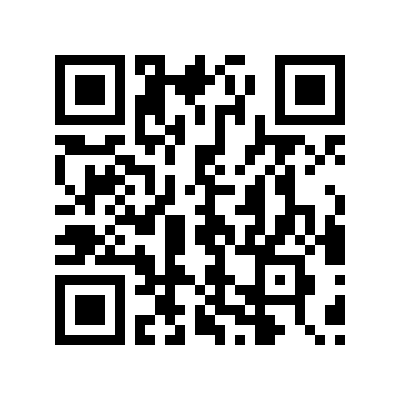
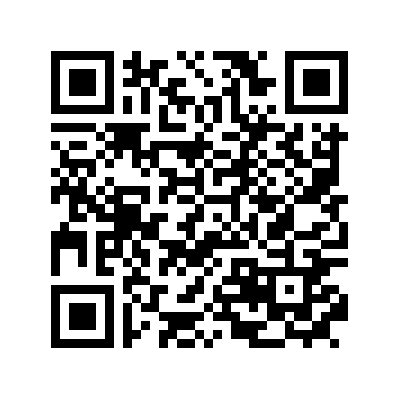
Generadores de codigo QR, dependencias nuevas pom y module info

diff --git a/src/main/java/edu/fpdual/hotelesapp/mail/QRGenerator.java b/src/main/java/edu/fpdual/hotelesapp/mail/QRGenerator.java
@@ -1,0 +1,113 @@
+package edu.fpdual.hotelesapp.mail;
+
+import com.google.zxing.BarcodeFormat;
+import com.google.zxing.EncodeHintType;
+import com.google.zxing.MultiFormatWriter;
+import com.google.zxing.client.j2se.MatrixToImageWriter;
+import com.google.zxing.common.BitMatrix;
+import com.google.zxing.qrcode.decoder.ErrorCorrectionLevel;
+
+import javax.imageio.ImageIO;
+import java.awt.*;
+import java.awt.image.BufferedImage;
+import java.io.File;
+import java.nio.file.Path;
+import java.util.HashMap;
+
+public class QRGenerator {
+	@SuppressWarnings("unchecked")
+	public static void main(String[] args) {
+
+		/**
+		 * Definir los parámetros del código QR.
+		 */
+		int width = 300;
+		int height = 300;
+		String format = "jpg";
+		String content = "C:\\Users\\angela.bonilla.gomez\\Documents\\reserva1.pdfImagen.png";// Contenido del código QR
+
+		/**
+		 * Definir sugerencias HashMap
+		 */
+		@SuppressWarnings("rawtypes")
+		HashMap hints = new HashMap();
+
+		/**
+		 * hints llama a la función put para establecer el conjunto de caracteres, el
+		 * espaciado y la corrección de errores en M
+		 */
+
+		hints.put(EncodeHintType.CHARACTER_SET, "utf-8");
+		hints.put(EncodeHintType.ERROR_CORRECTION, ErrorCorrectionLevel.M);// Nivel de corrección de error [L, M, Q, H]
+		hints.put(EncodeHintType.MARGIN, 2);
+
+		/**
+		 * Generar el codigo QR
+		 */
+		try {
+			MultiFormatWriter multiFormatWriter = new MultiFormatWriter();
+			/**
+			 * Finalmente, usamos la clase de función MultiformatWriter para llamar a la
+			 * función echoed y devolver un valor, luego escribimos en el archivo
+			 */
+			//
+			BitMatrix bitMatrix = multiFormatWriter.encode(content, BarcodeFormat.QR_CODE, width, height, hints);
+
+			Path file = new File("C:\\Users\\angela.bonilla.gomez\\Documents\\codigoQR.png").toPath();
+			MatrixToImageWriter.writeToPath(bitMatrix, format, file);
+			/**
+			 * ************* Agregar logo *****************
+			 */
+
+			/**
+			 * Leer la imagen del código QR
+			 */
+			BufferedImage bufferedImage = ImageIO.read(new File(file.toString()));
+			Graphics2D graphics = bufferedImage.createGraphics();
+
+			/**
+			 * Leer la imagen del logo
+			 */
+			BufferedImage logo = ImageIO
+					.read(new File("C:\\Users\\angela.bonilla.gomez\\eclipse-workspace\\appHoteles\\src\\main\\resources\\img\\logo2.png"));
+
+			/**
+			 * Establece el tamaño del logo, si es demasiado grande cubrirá el código QR,
+			 * aquí hay un 20%
+			 * 
+			 */
+			int logoWidth = logo.getWidth() > bufferedImage.getWidth() * 2 / 10 ? (bufferedImage.getWidth() * 2 / 10)
+					: logo.getWidth();
+			int logoHeight = logo.getHeight() > bufferedImage.getHeight() * 2 / 10
+					? (bufferedImage.getHeight() * 2 / 10)
+					: logo.getHeight();
+			
+			/**
+			 * Establecer la ubicación donde se coloca la imagen del logotipo, centrar
+			 * 
+			 */
+			int x = (bufferedImage.getWidth() - logoWidth) / 2;
+			int y = (bufferedImage.getHeight() - logoHeight) / 2;
+			
+			graphics.drawImage(logo, x, y, logoWidth, logoHeight, null);
+			graphics.drawRoundRect(x, y, logoWidth, logoHeight, 15, 15);
+			/**
+			 * Tamaño y color del borde del logo
+			 */
+			graphics.setStroke(new BasicStroke(2));
+			graphics.setColor(Color.WHITE);
+			graphics.drawRect(x, y, logoWidth, logoHeight);
+			graphics.dispose();
+			
+			logo.flush();
+			bufferedImage.flush();
+			
+			ImageIO.write(bufferedImage, format, new File("C:\\Users\\angela.bonilla.gomez\\Documents\\codigoQR2.png"));
+
+		} catch (Exception e) {
+			// TODO Auto-generated catch block
+			e.printStackTrace();
+		}
+
+	}
+}

diff --git a/src/main/java/edu/fpdual/hotelesapp/mail/GeneradorQR2.java b/src/main/java/edu/fpdual/hotelesapp/mail/GeneradorQR2.java
@@ -1,0 +1,51 @@
+package edu.fpdual.hotelesapp.mail;
+
+import com.google.zxing.BarcodeFormat;
+import com.google.zxing.WriterException;
+import com.google.zxing.common.BitMatrix;
+import com.google.zxing.qrcode.QRCodeWriter;
+import java.awt.Color;
+import java.awt.Graphics2D;
+import java.awt.image.BufferedImage;
+import java.io.File;
+import java.io.IOException;
+import java.util.UUID;
+import java.util.logging.Level;
+import java.util.logging.Logger;
+import javax.imageio.ImageIO;
+
+public class GeneradorQR2 {
+	public static void main(String[] args) {
+		try {
+			String content = "C:\\Users\\angela.bonilla.gomez\\Documents\\reserva1.pdf";
+			String filePath = "C:\\Users\\angela.bonilla.gomez\\Documents\\";
+			String fileType = "png";
+			int size = 125;
+			
+			QRCodeWriter qrcode = new QRCodeWriter();
+			BitMatrix matrix = qrcode.encode(content, BarcodeFormat.QR_CODE, size, size);
+			File qrFile = new File(filePath + "codigoQR." + fileType);
+			int matrixWidth = matrix.getWidth();
+			BufferedImage image = new BufferedImage(matrixWidth, matrixWidth, BufferedImage.TYPE_INT_RGB);
+			image.createGraphics();
+
+			Graphics2D graphics = (Graphics2D) image.getGraphics();
+			graphics.setColor(Color.WHITE);
+			graphics.fillRect(0, 0, matrixWidth, matrixWidth);
+			graphics.setColor(Color.BLACK);
+
+			for (int b = 0; b < matrixWidth; b++) {
+				for (int j = 0; j < matrixWidth; j++) {
+					if (matrix.get(b, j)) {
+						graphics.fillRect(b, j, 1, 1);
+					}
+				}
+			}
+			ImageIO.write(image, fileType, qrFile);
+		} catch (WriterException ex) {
+			Logger.getLogger(GeneradorQR2.class.getName()).log(Level.SEVERE, null, ex);
+		} catch (IOException ex) {
+			Logger.getLogger(GeneradorQR2.class.getName()).log(Level.SEVERE, null, ex);
+		}
+	}
+}

diff --git a/src/main/java/module-info.java b/src/main/java/module-info.java
@@ -11,8 +11,9 @@ module edu.fpdual.hotelesapp.hotelesapp {
 	requires itextpdf;
 	requires java.desktop;
 	requires org.apache.commons.codec;
-	requires core;
 	requires pdfbox;
+	requires com.google.zxing;
+	requires com.google.zxing.javase;
     opens edu.fpdual.hotelesapp.interfaz to javafx.fxml;
     opens edu.fpdual.hotelesapp.objetos;
     opens edu.fpdual.hotelesapp.conector;
